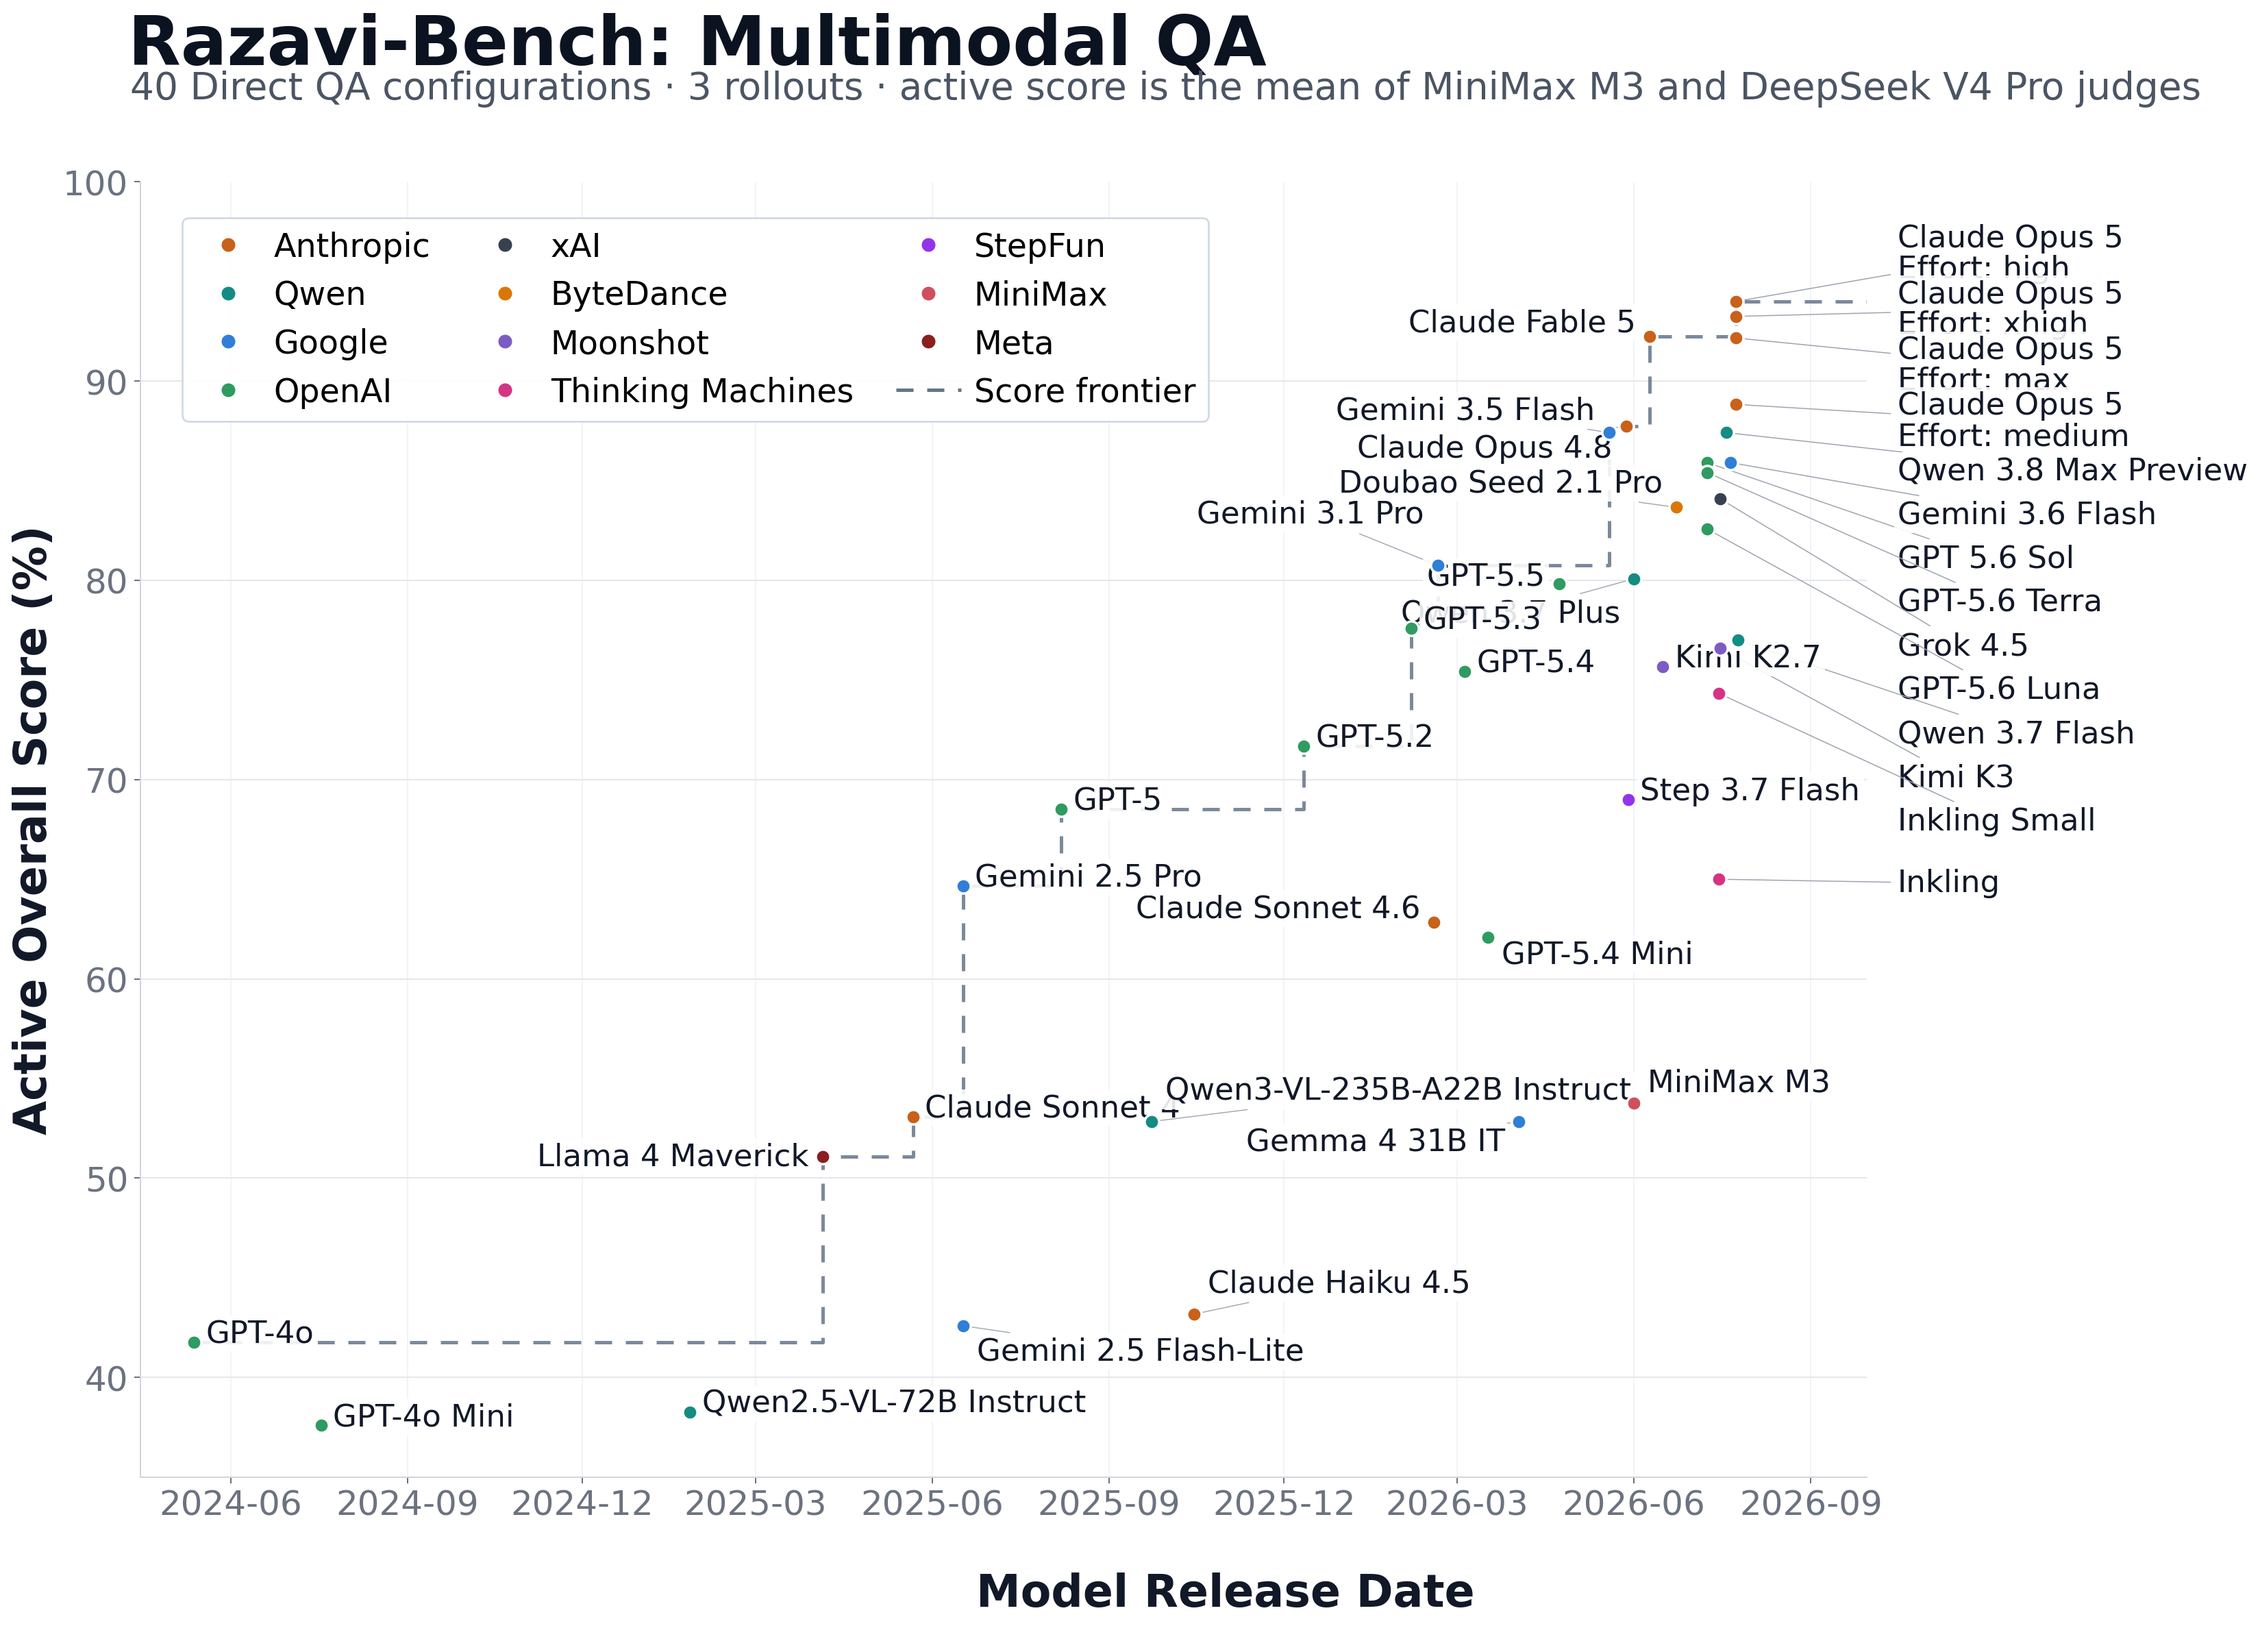
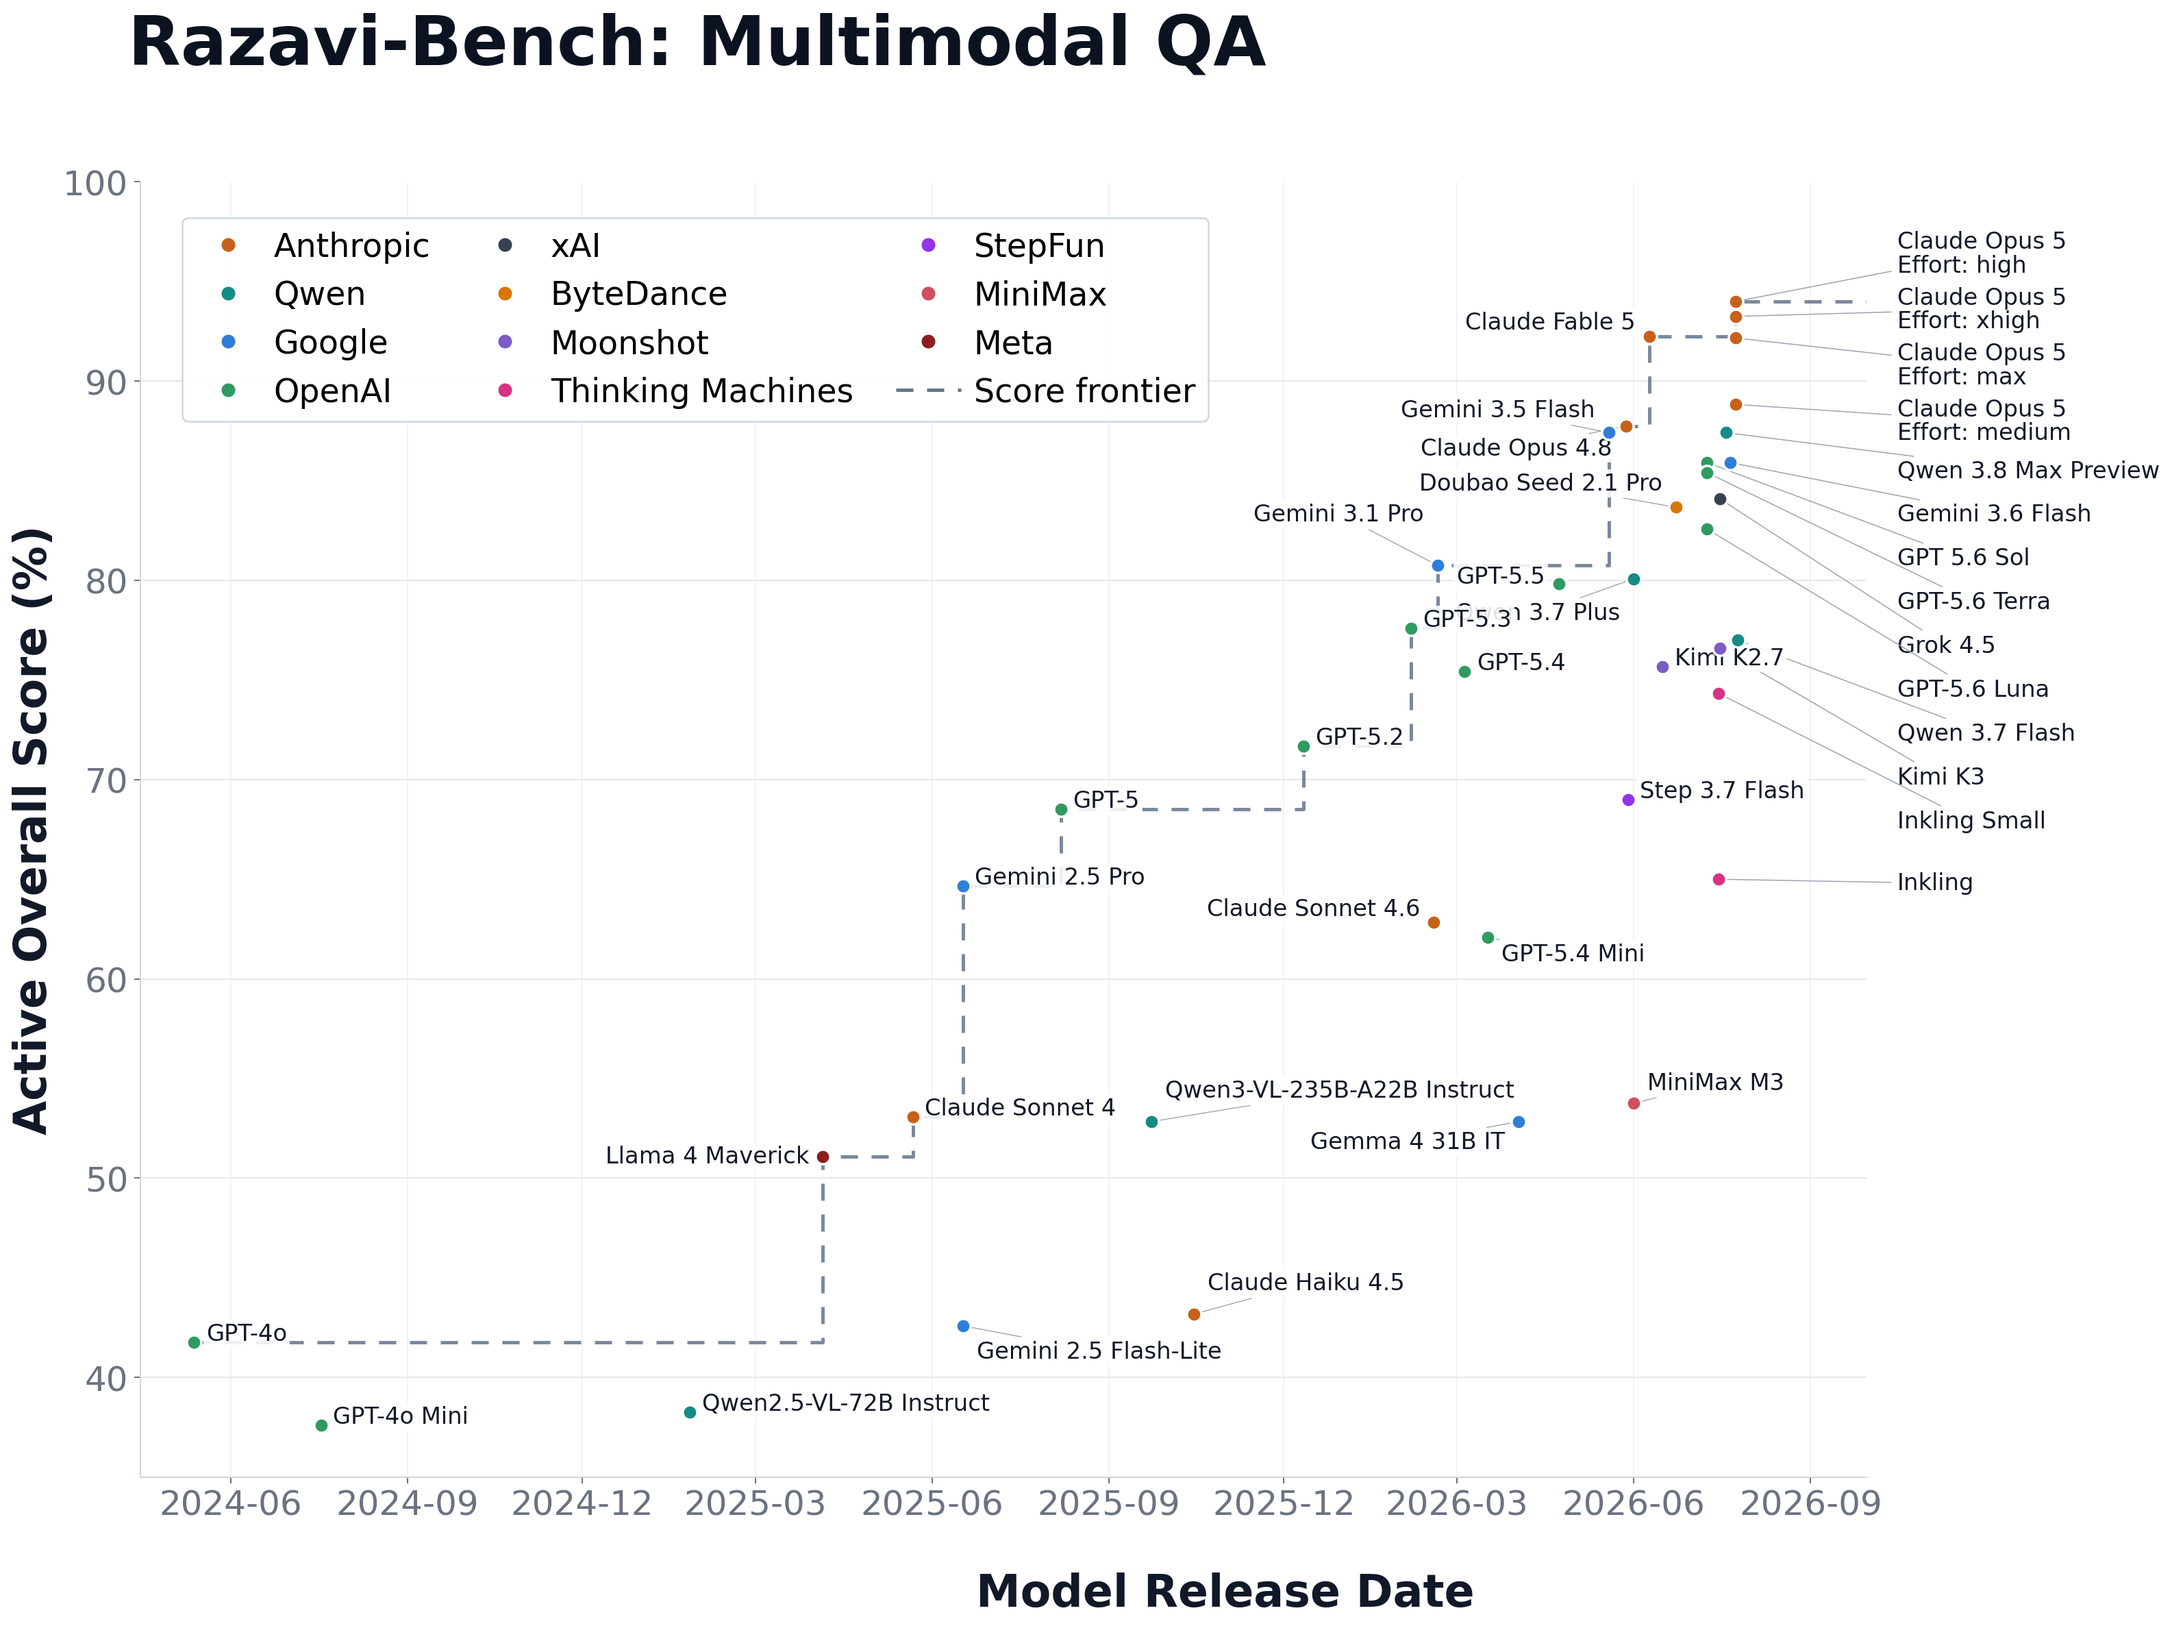
Refine release timeline labels

diff --git a/tools/plot_model_release_timeline.py b/tools/plot_model_release_timeline.py
@@ -129,7 +129,7 @@ def annotate(ax: plt.Axes, row: dict[str, object]) -> None:
             textcoords=ax.get_yaxis_transform(),
             ha="left",
             va="center",
-            fontsize=18,
+            fontsize=13.5,
             color="#111827",
             linespacing=1.05,
             arrowprops={"arrowstyle": "-", "color": "#9CA3AF", "lw": 0.6},
@@ -148,7 +148,7 @@ def annotate(ax: plt.Axes, row: dict[str, object]) -> None:
         textcoords="offset points",
         ha=horizontal_alignment,
         va="center",
-        fontsize=18,
+        fontsize=13.5,
         color="#111827",
         linespacing=1.05,
         arrowprops={"arrowstyle": "-", "color": "#9CA3AF", "lw": 0.55},
@@ -237,14 +237,6 @@ def plot(rows: list[dict[str, object]], output: Path) -> None:
         fontweight="bold",
         color="#0B1220",
     )
-    figure.text(
-        0.056,
-        0.925,
-        f"{len(rows)} Direct QA configurations · 3 rollouts · active score is the mean of MiniMax M3 and DeepSeek V4 Pro judges",
-        fontsize=22,
-        color="#4B5563",
-    )
-
     providers = []
     seen = set()
     for row in rows:
